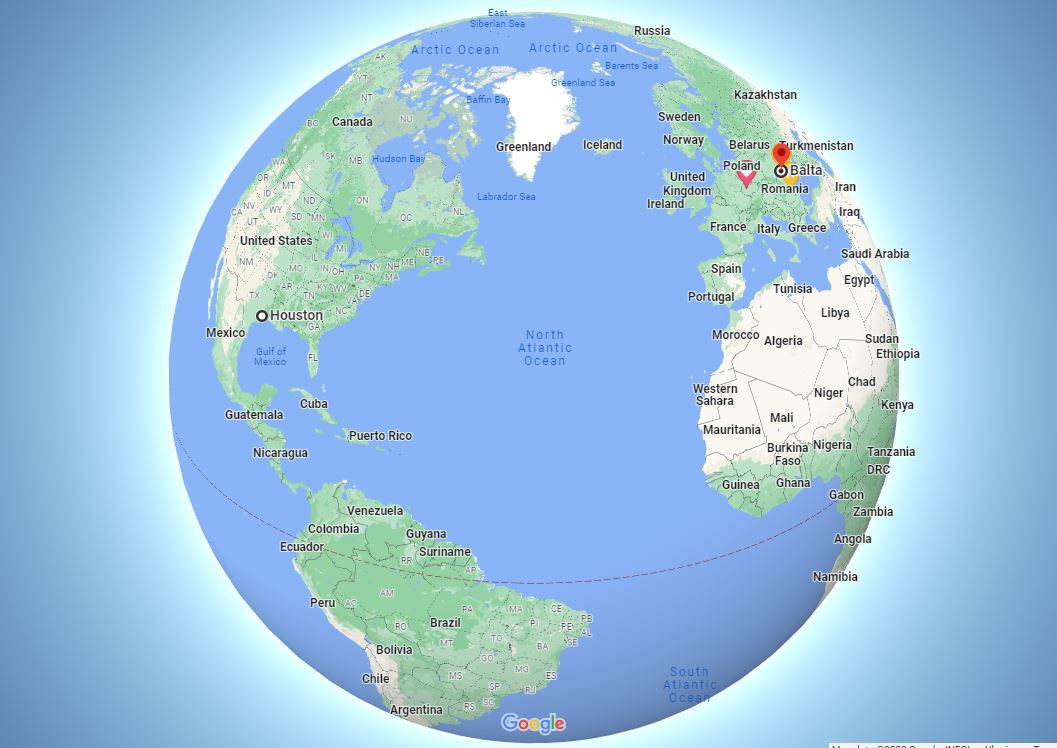
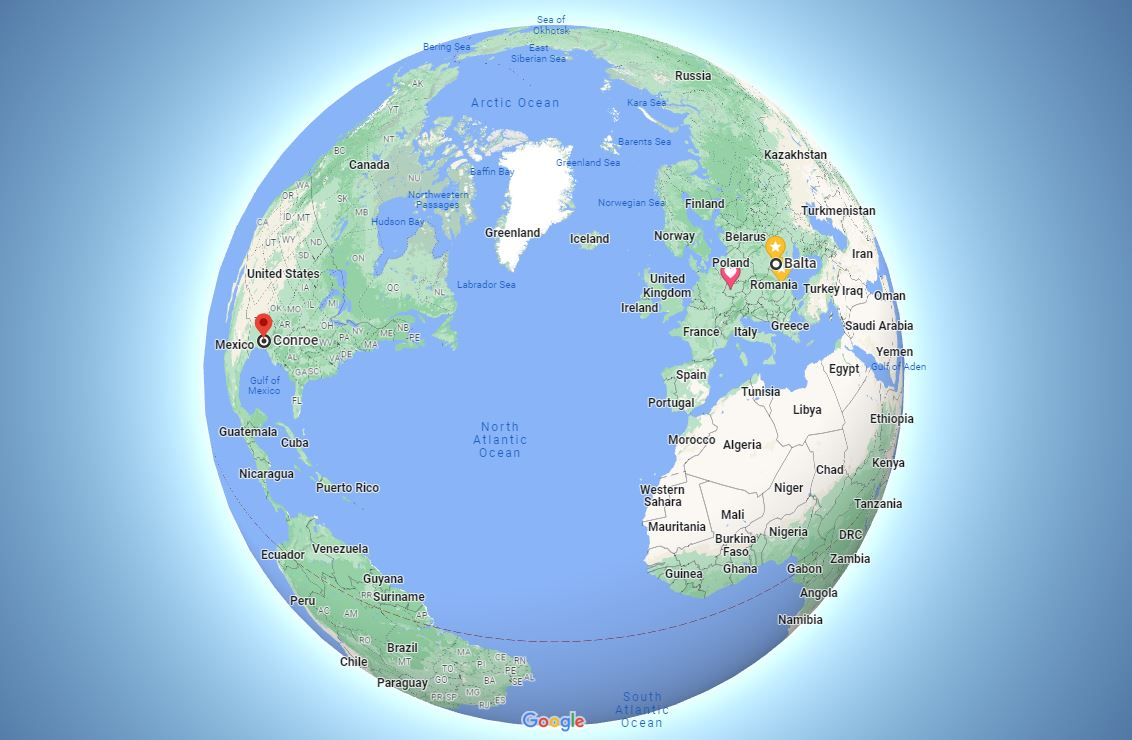
feat: change location to conroe

diff --git a/src/Map/Map.tsx b/src/Map/Map.tsx
@@ -5,14 +5,14 @@ import './Map.css';
 export default function MapHouston() {
   return (
     <div className='maps'>
-      <h2>Houston-Balta</h2>
+      <h2>Conroe-Balta</h2>
       <div className='globe'>
         <img src={`${process.env.PUBLIC_URL}/globe.jpg`} alt="globe" />
       </div>
-      <Time/>
+      <Time />
       <div className="map-wrapper">
 
-      <iframe title="myFrame" src="https://www.google.com/maps/embed?pb=!1m14!1m8!1m3!1d2905885.145531841!2d-96.91470895298819!3d31.267417925303103!3m2!1i1024!2i768!4f13.1!3m3!1m2!1s0x8640b8b4488d8501%3A0xca0d02def365053b!2sHouston%2C%20TX%2C%20USA!5e0!3m2!1sen!2sua!4v1669800598860!5m2!1sen!2sua"
+      <iframe title="myFrame" src="https://www.google.com/maps/embed?pb=!1m18!1m12!1m3!1d220439.96479167434!2d-95.66389249961956!3d30.311865243153736!2m3!1f0!2f0!3f0!3m2!1i1024!2i768!4f13.1!3m3!1m2!1s0x86472491556d3b49%3A0xe6352b9b1dad110e!2sConroe%2C%20TX%2C%20USA!5e0!3m2!1sen!2sua!4v1669878941739!5m2!1sen!2sua"
       style={{width: 400, height: 400, border: 0 }} loading="lazy"  referrerPolicy="no-referrer-when-downgrade" ></iframe>
       <iframe title="myFrame" src="https://www.google.com/maps/embed?pb=!1m18!1m12!1m3!1d42764.90718885823!2d29.586997173153296!3d47.94012267654934!2m3!1f0!2f0!3f0!3m2!1i1024!2i768!4f13.1!3m3!1m2!1s0x40cc2f261757eb55%3A0x1d9b4421f6bed414!2sBalta%2C%20Odessa%20Oblast%2C%2066100!5e0!3m2!1sen!2sua!4v1669803602756!5m2!1sen!2sua"
       style={{width: 400, height: 400, border: 0 }} loading="lazy"  referrerPolicy="no-referrer-when-downgrade" ></iframe>
@@ -21,4 +21,5 @@ export default function MapHouston() {
     </div>
   );
 }
+
 

diff --git a/src/Time/Time.tsx b/src/Time/Time.tsx
@@ -1,14 +1,16 @@
 import React from 'react';
 import './Time.css';
 
-export const Time = () => {
+export const Time = () =>  {
   const timeDavid = new Date().toLocaleString('en-US', { timeZone: 'America/Chicago' });
   const timeOlena = new Date().toLocaleString('en-US', { timeZone: 'Europe/Kiev' });
 
   return (
     <div className='time-wrapper'>
-      <div>David's time: {timeDavid}</div>
+      <div>David's time: {setTimeout(timeDavid, 1000)}</div>
       <div>Olena's time: {timeOlena}</div>
     </div>
-  );
-};
+  )};
+
+
+
